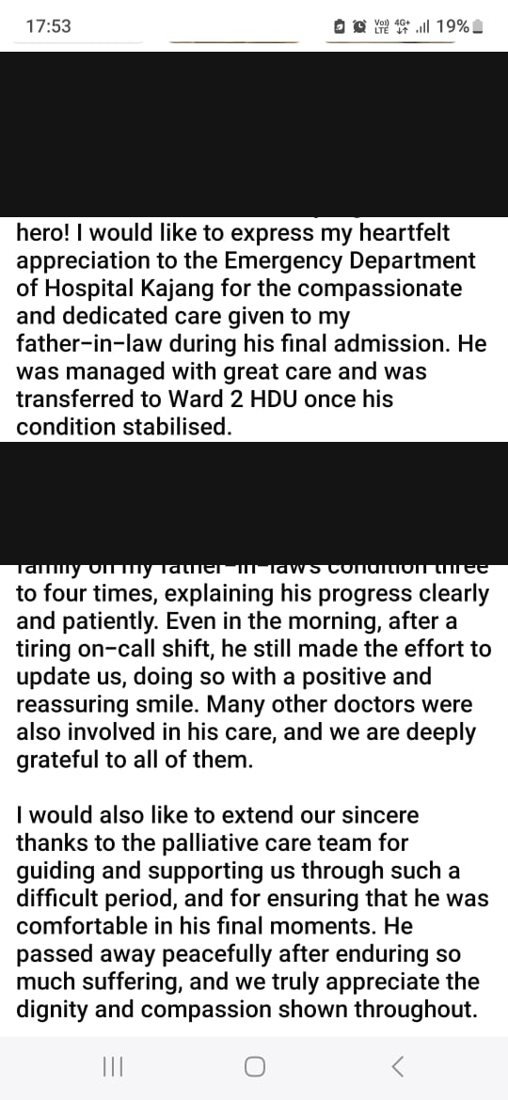
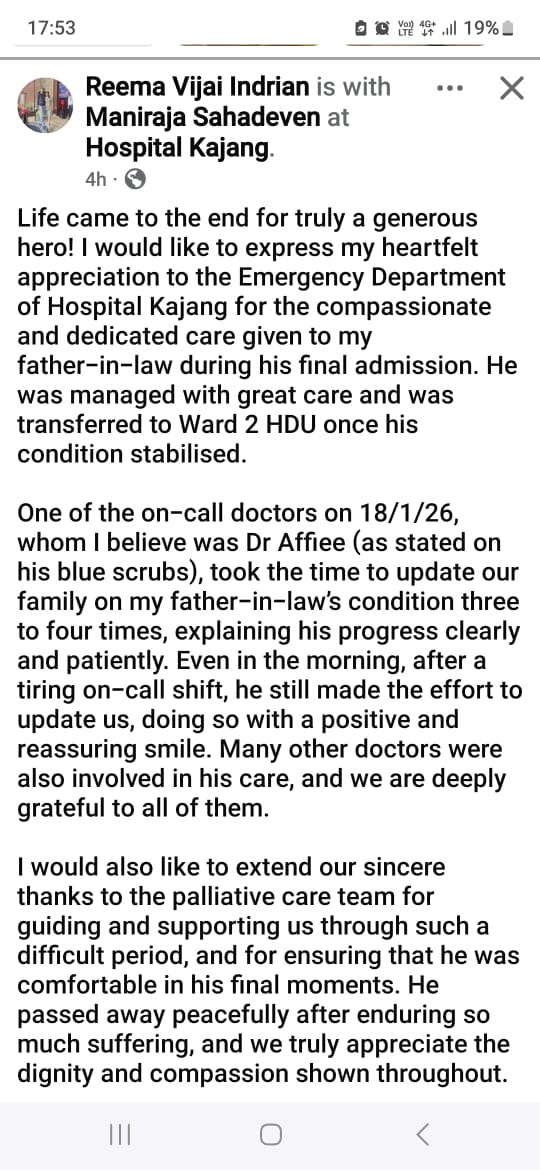
Show the appreciation photographs as HTPN supplied them, and add a fifth
HTPN re-supplied all five photographs and directed that they be shown
unaltered: appreciation is meant to be seen, the people who wrote it
published it themselves, and covering the names takes the thanks away
from the staff it was written for. That call is HTPN's to make.

- The four files under public/brand/appreciation/ are now the originals.
- IMAGES_ARE_REDACTED is off, so every "what was removed" line is gone
  from the screen. The switch stays in gallery.js so the pictures and the
  words describing them can never disagree if that ever changes.
- A fifth photograph is added: a mother writing about the night her son
  was born and the PAC staff who saw her through it.

The captions still describe rather than name. A caption is this app's own
writing, and it has no business typing out a patient's bed number even
where the photograph above it shows one; the gallery suite enforces that.

Gallery suite plus v2, realphone, shortwin, pipeline, feedback and board
pass at 800x1280, 390x664, 360x600 and 1000x726.

Claude-Session: https://claude.ai/code/session_01SnsnEDVHcQkvoj7JbcF8Qm

Changed region(s): [[0.0, 0.0309, 1.0, 0.2164], [0.0, 0.4018, 1.0, 0.5255]]

diff --git a/src/data/gallery.js b/src/data/gallery.js
@@ -1,40 +1,23 @@
 /* ===========================================================================
    gallery.js — appreciation HTPN has received, as pictures.
 
-   HTPN'S DECISION ON NAMES
-   HTPN has directed that these pictures be shown as supplied: appreciation is
-   meant to be seen, the authors published most of it themselves, and the names
-   are not to be covered. That decision is HTPN's to make and is recorded here.
+   SHOWN AS SUPPLIED, BY HTPN'S DECISION
+   These are the five photographs HTPN supplied, unaltered. HTPN directed that
+   they be shown that way: appreciation is meant to be seen, the people who
+   wrote it published it themselves, and covering the names takes the thanks
+   away from the staff it was written for. That call is HTPN's to make.
 
-   WHAT THE FILES IN THIS REPOSITORY ACTUALLY ARE
-   The four files under public/brand/appreciation/ are still the versions with
-   black bars over names, faces, wards and bed numbers. This build was not
-   permitted to write the unredacted originals into the repository, so the
-   bars are there whether or not HTPN wants them. Each card therefore still
-   says what is covered, because black bars with no explanation read worse
-   than black bars with one.
+   The one that was not self-published is the handwritten Ramadan note, left
+   on a ward. HTPN, which holds it, has decided the same for it.
 
-   TO SHOW THEM AS SUPPLIED — two steps, and the second is one word.
-   1. Replace these four files with the originals. Same four names:
-          public/brand/appreciation/note-ramadhan.jpg
-          public/brand/appreciation/gift-tags.jpg
-          public/brand/appreciation/fb-ward-visit.jpg
-          public/brand/appreciation/fb-emergency.jpg
-   2. Change IMAGES_ARE_REDACTED below from true to false. Every "what was
-      removed" line disappears from the screen at once, because each one is
-      drawn only while that flag is true. Nothing else needs editing.
-
-   One factual note for the record, not an argument: three of these four were
-   published by their authors. The handwritten Ramadan note was not — it was
-   left on a ward, and it carries a patient's name together with her ward, bed
-   number and admission dates.
+   The IMAGES_ARE_REDACTED switch below is off. It stays in the file so that
+   if HTPN ever supplies covered versions of these files, one word turns the
+   matching "what was removed" lines back on, and the pictures and the words
+   describing them can never disagree.
    ========================================================================= */
 
-/* The one switch. True while the files in this repository still carry black
-   bars; false once the originals replace them. It governs every line on the
-   screen that mentions a redaction, so the pictures and the words describing
-   them can never disagree. */
-export const IMAGES_ARE_REDACTED = true
+/* Off: the files under public/brand/appreciation/ are the originals. */
+export const IMAGES_ARE_REDACTED = false
 
 export const GALLERY = [
   {
@@ -72,6 +55,15 @@ export const GALLERY = [
       ms: 'Sebuah keluarga mengucapkan terima kasih kepada Jabatan Kecemasan dan pasukan rawatan paliatif atas penjagaan terhadap saudara mereka pada hari-hari terakhirnya.'
     },
     redacted: { en: 'Family names and the doctor’s name removed', ms: 'Nama keluarga dan nama doktor dibuang' }
+  },
+  {
+    id: 'fb_pac',
+    src: 'brand/appreciation/fb-pac-birth.jpg',
+    caption: {
+      en: 'A mother writes about the night her son was born, and the PAC staff — from the security officer at the door to the nurses in the labour room — who saw her through it.',
+      ms: 'Seorang ibu menulis tentang malam kelahiran anaknya, dan kakitangan PAC — daripada pegawai keselamatan di pintu hingga jururawat di bilik bersalin — yang menemaninya sepanjang waktu itu.'
+    },
+    redacted: { en: 'Names and the baby’s photograph removed', ms: 'Nama dan gambar bayi dibuang' }
   }
 ]
 
